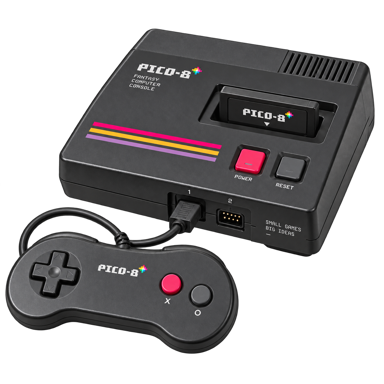
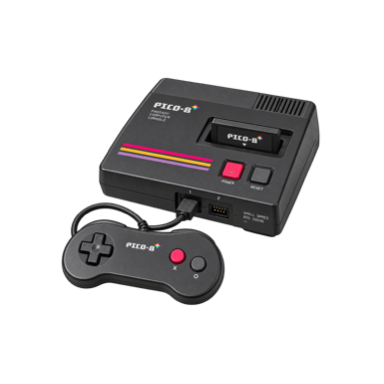
Match PICO-8 Games artwork scale to neighboring consoles

diff --git a/res/themes/Jawaka-Coverflow/system_icons/LICENSE-ASSETS.md b/res/themes/Jawaka-Coverflow/system_icons/LICENSE-ASSETS.md
@@ -59,6 +59,8 @@ September 12, 2026. It depicts a fictional PICO-8 console and controller;
 reference-image details were not supplied. The original 1349x1166 RGBA PNG
 is archived unchanged in `umrk-assets/Systems/ICONS/PICO8.png`. This 384x384
 transparent runtime copy contains the complete image, scaled and centered
-without cropping or stretching. The same copy is used by PICO-8-pak.
+without cropping or stretching. Its longest image dimension occupies 70% of
+the canvas to match the visual weight of NES and PlayStation in Games.
+PICO-8-pak uses a larger framing of the same illustration for its Apps entry.
 No exclusive rights are claimed in the generated illustration. PICO-8 names
 and marks identify the platform; this is not official Lexaloffle artwork.
